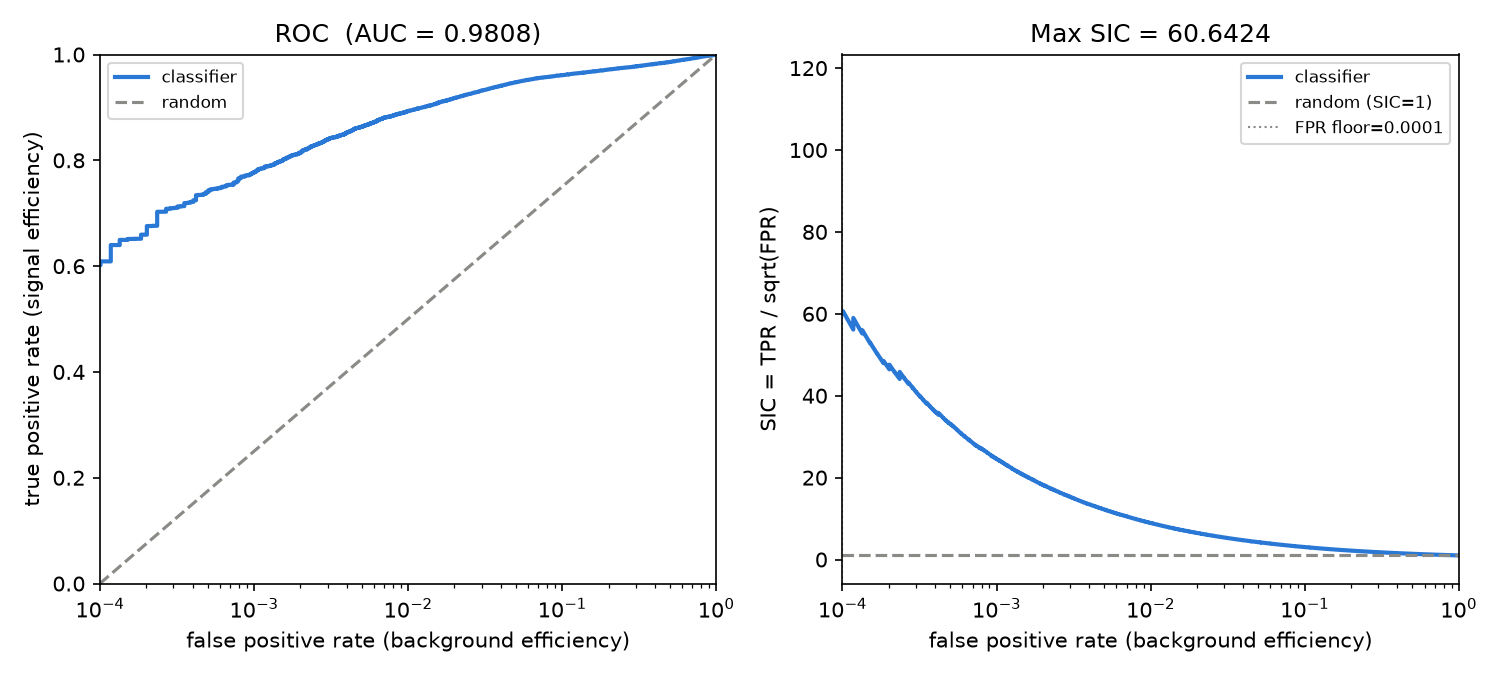
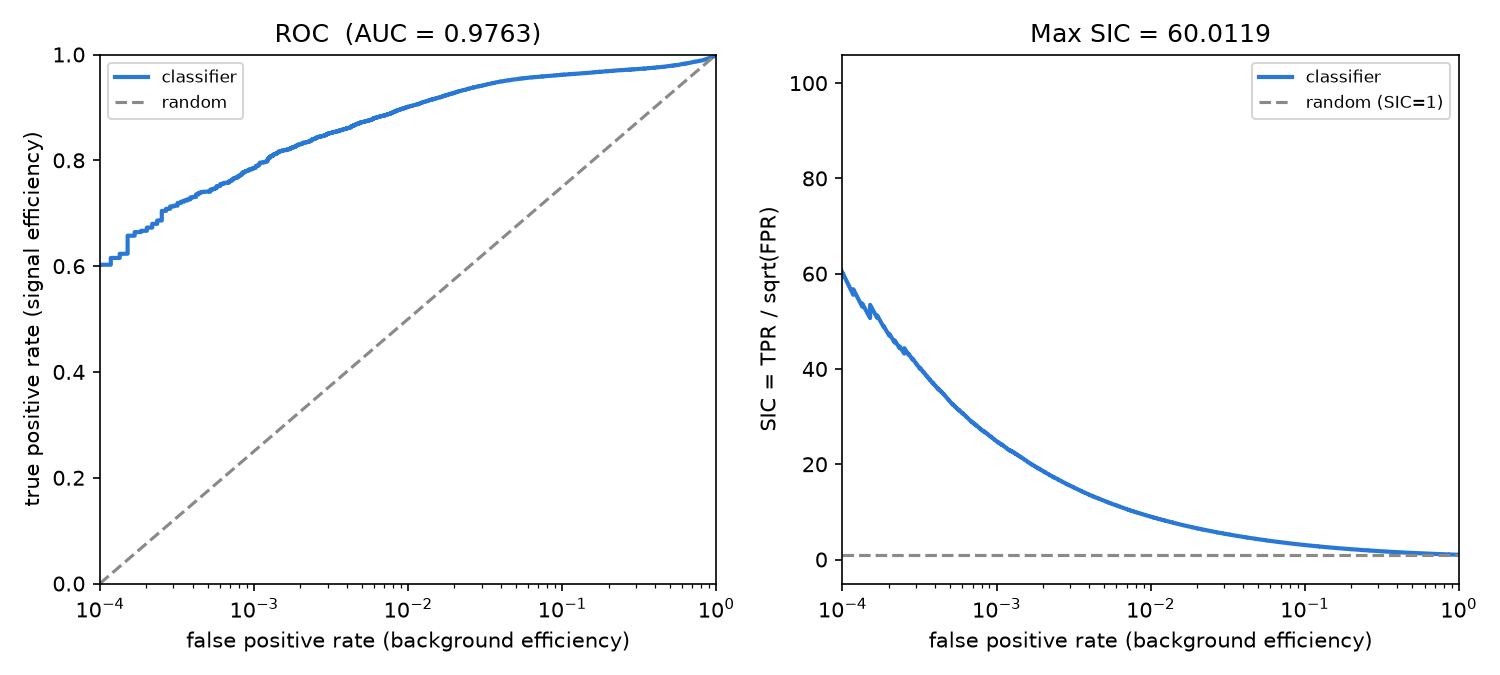
plot ROC curves for nsig 500 and 1000

diff --git a/tools/metrics/compute_roc_sic_lhco.py b/tools/metrics/compute_roc_sic_lhco.py
@@ -22,8 +22,8 @@ GRAY = "#8a8a86"
 # ============================================================
 SAVE_TAG_BASE = "fine_tune_pretrain_s"
 DATASET = "lhco_ad"
-NSIG = 10000
-DESCRIPT_TAG = "test7"
+NSIG = 1000
+DESCRIPT_TAG = "r1"
 QUANTIZATION = "none"
 
 # Drop FPR below this before max-SIC -- matches evaluate_classifiers_lhco.py
@@ -65,11 +65,10 @@ def max_sic(fpr, tpr, fpr_floor):
     return np.max(tpr / np.sqrt(fpr)), len(fpr)
 
 
-def plot_roc_sic(fpr, tpr, auc, sic, fpr_floor, outfile):
+def plot_roc_sic(fpr, tpr, auc, sic, outfile):
     """ROC (with the random-classifier diagonal) beside SIC=TPR/sqrt(FPR)
-    vs FPR (with the random baseline at SIC=1 and the fpr_floor cutoff
-    marked) -- both x-axes log-scaled, standard for HEP background
-    rejection."""
+    vs FPR (with the random baseline at SIC=1) -- both x-axes log-scaled,
+    standard for HEP background rejection."""
     sic_curve = np.divide(tpr, np.sqrt(fpr), out=np.zeros_like(tpr), where=fpr > 0)
 
     fig, axes = plt.subplots(1, 2, figsize=(10, 4.5))
@@ -88,7 +87,6 @@ def plot_roc_sic(fpr, tpr, auc, sic, fpr_floor, outfile):
     ax = axes[1]
     ax.plot(fpr, sic_curve, color=BLUE, linewidth=2, label="classifier")
     ax.axhline(1.0, color=GRAY, linestyle="--", linewidth=1.5, label="random (SIC=1)")
-    ax.axvline(fpr_floor, color=GRAY, linestyle=":", linewidth=1, label=f"FPR floor={fpr_floor:g}")
     ax.set_xscale("log")
     ax.set_xlim(1e-4, 1)
     ax.set_xlabel("false positive rate (background efficiency)")
@@ -128,7 +126,7 @@ def main():
     print(f"Max SIC : {sic:.4f}  (FPR floor={FPR_FLOOR:g}, {n_surviving:,} ROC points survive)")
     print("Reference: a random classifier's max-SIC is 1.0, not 0.")
 
-    plot_roc_sic(fpr, tpr, auc, sic, FPR_FLOOR, f"roc_sic_{SAVE_TAG}.png")
+    plot_roc_sic(fpr, tpr, auc, sic, f"roc_sic_{SAVE_TAG}.png")
 
 
 if __name__ == "__main__":
